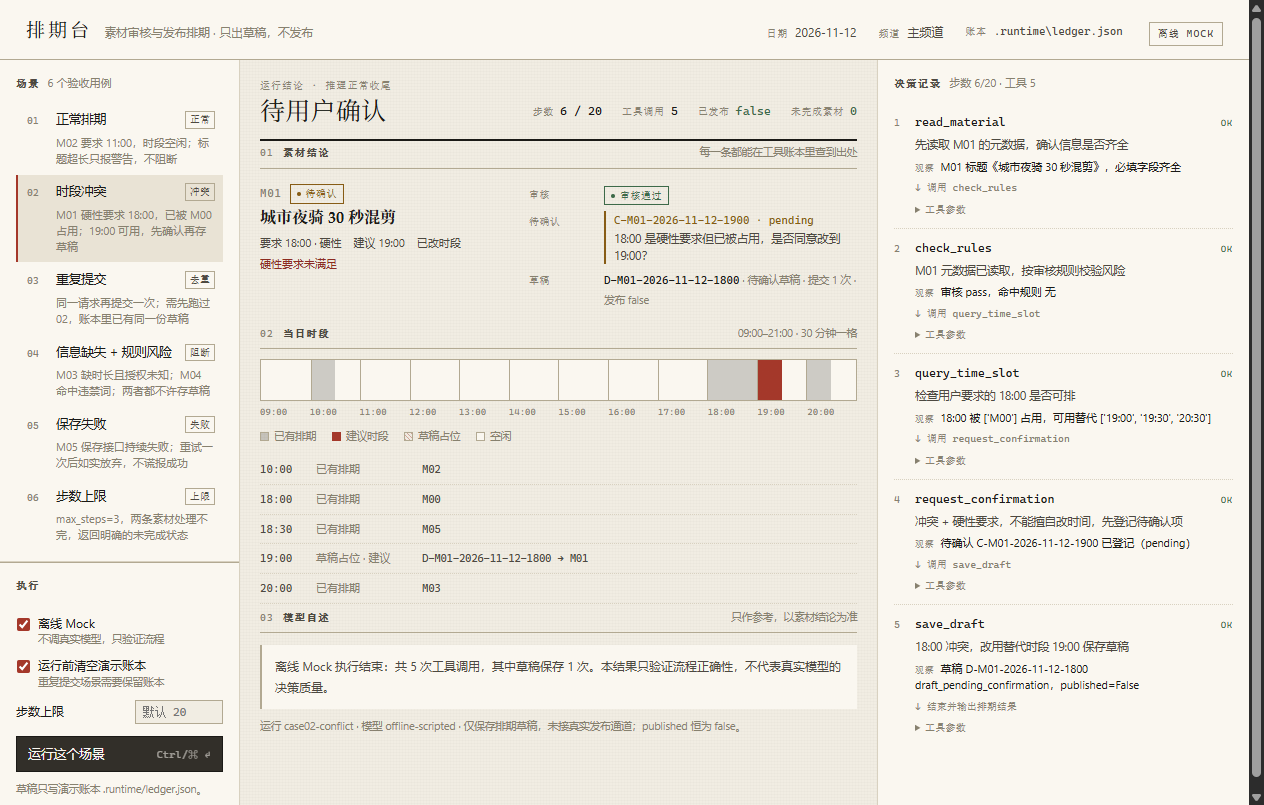
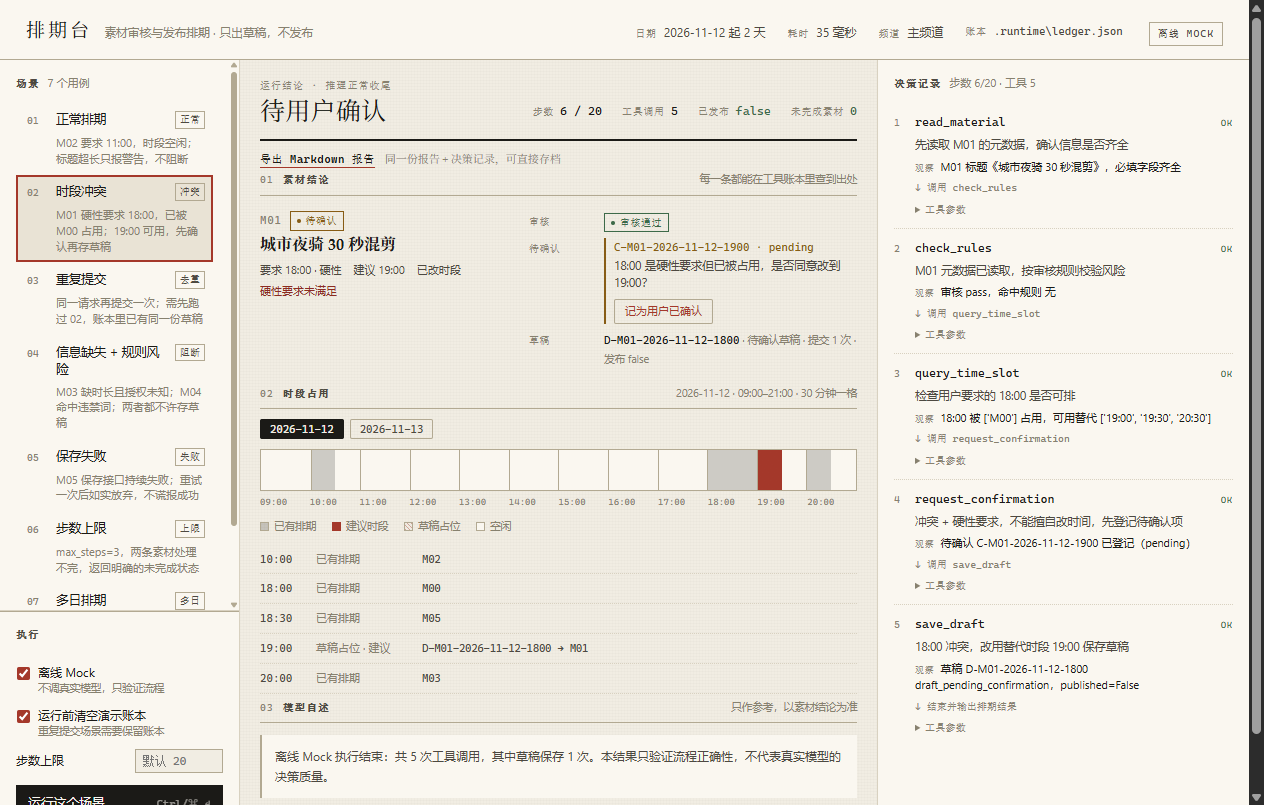
feat(web): 顶栏显示本轮耗时、键盘可走场景列表、窄屏截图补齐
- 运行开始时记时间戳，report 到达后显示真实耗时（离线几十毫秒，真实模型十几秒）
- 场景列表改为 roving tabindex：方向键/Home/End 移动焦点，只有当前项进 Tab 序列
- #outcome 与 #trace-limits 加 aria-live，结论变化读屏可听到；button/a 加 :focus-visible 描边
- 服务端用例补键盘/读屏钩子断言；全套 59 个通过
- 新增 docs/images/web-narrow.png（884px 单列布局），重拍 02 与 07 截图以体现耗时与修正后的场景说明

diff --git a/web/app.js b/web/app.js
@@ -56,6 +56,7 @@
   var running = false;
   var stream = null;
   var finished = false;
+  var startedAt = 0;
 
   function $(id) { return document.getElementById(id); }
 
@@ -118,9 +119,36 @@
       btn.appendChild(el("span", "case-tag", item.tag));
       btn.appendChild(el("span", "case-note", item.note));
       btn.addEventListener("click", function () { select(item.file); });
+      btn.addEventListener("keydown", onCaseKey);
       li.appendChild(btn);
       root.appendChild(li);
     });
+    syncCaseTabindex();
+  }
+
+  /* 列表是单选组：只有当前项进 Tab 序列，箭头键在项之间移动。 */
+  function syncCaseTabindex() {
+    Array.prototype.forEach.call(document.querySelectorAll(".case"), function (node) {
+      node.tabIndex = node.dataset.case === selected ? 0 : -1;
+    });
+  }
+
+  function onCaseKey(event) {
+    var keys = { ArrowDown: 1, ArrowRight: 1, ArrowUp: -1, ArrowLeft: -1 };
+    var nodes = Array.prototype.slice.call(document.querySelectorAll(".case"));
+    var here = nodes.indexOf(event.currentTarget);
+    var next = null;
+    if (event.key in keys) {
+      next = nodes[(here + keys[event.key] + nodes.length) % nodes.length];
+    } else if (event.key === "Home") {
+      next = nodes[0];
+    } else if (event.key === "End") {
+      next = nodes[nodes.length - 1];
+    }
+    if (!next) { return; }
+    event.preventDefault();
+    select(next.dataset.case);
+    next.focus();
   }
 
   function select(name) {
@@ -128,6 +156,7 @@
     Array.prototype.forEach.call(document.querySelectorAll(".case"), function (node) {
       node.setAttribute("aria-current", node.dataset.case === name ? "true" : "false");
     });
+    syncCaseTabindex();
   }
 
   /* ---------- timeline ---------- */
@@ -422,6 +451,15 @@
     (trace.steps || []).forEach(function (step) { root.appendChild(stepItem(step)); });
   }
 
+  /* 耗时按浏览器时钟算：它只说明"这一轮跑了多久"，结论仍只信 report。 */
+  function renderDuration() {
+    if (!startedAt) { $("meta-duration").textContent = "—"; return; }
+    var elapsed = Date.now() - startedAt;
+    $("meta-duration").textContent = elapsed < 1000
+      ? Math.max(1, Math.round(elapsed)) + " 毫秒"
+      : (elapsed / 1000).toFixed(1) + " 秒";
+  }
+
   function stepItem(step) {
     var li = el("li", "step");
     var head = el("div", "step-head");
@@ -500,6 +538,8 @@
     var maxSteps = $("max-steps").value;
     if (maxSteps) { params.set("max_steps", maxSteps); }
 
+    startedAt = Date.now();
+    $("meta-duration").textContent = "计中…";
     $("empty").hidden = true;
     $("results").hidden = false;
     $("results").classList.add("stale");  // 上一轮的结论先压暗，别让人误以为是新的
@@ -519,6 +559,7 @@
       state = payload.state;
       renderMeta(state);
       renderReport(payload.report, payload.trace);
+      renderDuration();
       $("results").classList.remove("stale");
       closeStream();
       setRunning(false);

diff --git a/web/index.html b/web/index.html
@@ -16,6 +16,7 @@
   </div>
   <dl class="meta">
     <div><dt>日期</dt><dd id="meta-date">—</dd></div>
+    <div><dt>耗时</dt><dd id="meta-duration">—</dd></div>
     <div><dt>频道</dt><dd id="meta-channel">—</dd></div>
     <div><dt>账本</dt><dd id="meta-ledger" class="mono">—</dd></div>
   </dl>
@@ -56,7 +57,7 @@
       <div class="verdict">
         <div class="verdict-main">
           <p class="eyebrow" id="verdict-sub">运行结论</p>
-          <p class="outcome" id="outcome">—</p>
+          <p class="outcome" id="outcome" aria-live="polite">—</p>
         </div>
         <ul class="counters" id="counters"></ul>
       </div>
@@ -87,7 +88,7 @@
 
   <aside class="rail rail-right">
     <section class="panel trace-panel">
-      <h2 class="panel-title">决策记录<em id="trace-limits">未运行</em></h2>
+      <h2 class="panel-title">决策记录<em id="trace-limits" aria-live="polite">未运行</em></h2>
       <ol class="trace" id="trace"></ol>
     </section>
   </aside>

diff --git a/web/app.css b/web/app.css
@@ -337,6 +337,16 @@ h1, h2, h3, p, dl, dd, ol, ul, pre { margin: 0; }
 .confirm-btn:hover { background: var(--accent-soft); border-color: var(--accent); }
 .confirm-btn:disabled { opacity: 0.55; cursor: default; }
 
+/* 键盘用户：焦点必须看得见，且只在键盘导航时出现，不干扰鼠标点击的观感 */
+button:focus-visible,
+a:focus-visible,
+select:focus-visible,
+input:focus-visible {
+  outline: 2px solid var(--accent);
+  outline-offset: 2px;
+}
+.case:focus-visible { outline-offset: -2px; }
+
 @media (max-width: 1360px) {
   .grid { grid-template-columns: 240px minmax(0, 1fr) 372px; }
   .work { padding: 18px 20px 34px; }

diff --git a/tests/test_server.py b/tests/test_server.py
@@ -69,6 +69,16 @@ class ServerTestCase(unittest.TestCase):
         self.assertEqual(status, 200)
         self.assertIn("排期台", body.decode("utf-8"))
 
+    def test_index_keeps_the_keyboard_and_screen_reader_hooks(self) -> None:
+        _, page = self.get("/")
+        html = page.decode("utf-8")
+        self.assertIn('aria-live="polite"', html)
+        self.assertIn('id="meta-duration"', html)
+        _, script = self.get("/app.js")
+        js = script.decode("utf-8")
+        self.assertIn("ArrowDown", js)
+        self.assertIn("tabIndex", js)
+
     def test_static_css_is_served_with_right_content_type(self) -> None:
         status, _ = self.get("/app.css")
         self.assertEqual(status, 200)

diff --git a/docs/03-evaluation.md b/docs/03-evaluation.md
@@ -15,7 +15,7 @@
 | 工具层 | `tests/test_tools.py` | 硬性时间护栏、审核未过护栏、重复提交去重、自有草稿不冲突、他人草稿占位、保存失败、参数校验、素材不存在、越界读取、未注册工具、替代时段的推荐理由随工具结果返回 |
 | 图级 | `tests/test_agent_flow.py` | 7 个用例端到端、多日冲突只在自己那一天待确认、步数上限（含 CLI 覆盖）、trace 结构、无发布工具 |
 | 报告层 | `tests/test_markdown.py` | 02 的确认项与草稿 id 原样出现在 Markdown、任何用例都不得出现「已发布：是」、保存失败写成「未保存（失败 2 次，未谎报成功）」、步数上限列出未完成素材、CLI `--report-md` 真的写出文件 |
-| 接口层 | `tests/test_server.py` | `/api/state` 字段（含 `dates`/`days` 两天占位）、7 个场景、静态文件与路径穿越、`/api/run` 跑通 02、非法场景与坏 JSON、`/api/reset` 清账本、02→05 只有一份草稿、四场景 `published` 恒 False、SSE 顺序与人工确认回写 |
+| 接口层 | `tests/test_server.py` | `/api/state` 字段（含 `dates`/`days` 两天占位）、7 个场景、静态文件与路径穿越、`/api/run` 跑通 02、非法场景与坏 JSON、`/api/reset` 清账本、02→05 只有一份草稿、四场景 `published` 恒 False、SSE 顺序与人工确认回写、页面保留键盘/读屏钩子（`aria-live`、`meta-duration`、箭头键 tabindex） |
 
 ## 七个用例的实际结果（离线 Mock）
 
@@ -52,7 +52,7 @@
 实时推送同样有接口级断言：`test_stream_pushes_steps_before_the_final_report` 读真 SSE 流，确认 `meta` 先行、
 中间至少 3 条 `trace` 快照（第一条只含 1 步、末条步号已推进）、最后一条是 `report` 且 `published=False`；
 `test_stream_rejects_unknown_case_before_opening_stream` 保证非法场景在开流之前就 400。
-九张截图是同一界面在不同场景下的实际渲染，页面上的数字全部来自那份 `report`：
+十张截图是同一界面在不同场景下的实际渲染，页面上的数字全部来自那份 `report`：
 
 | 截图 | 场景 | 页面上应看到的 |
 | --- | --- | --- |
@@ -63,6 +63,7 @@
 | `docs/images/web-02-conflict-live.png` | 02 走真实模型 | 右上角切到「真实模型」；`步数 5/20`、`工具 5`；决策依据栏是模型自己写的理由，结论同为「待用户确认」，`已发布 false` |
 | `docs/images/web-02-conflict-approved.png` | 人工确认后重跑 | 点「记为用户已确认」后确认项变 `approved`、结论变「已排期 · 仅草稿」、`requires_user_confirmation=false`、`published` 仍为 false |
 | `docs/images/web-02-conflict-streaming.png` | 真实模型运行中（第 3 条决策） | 右栏逐条推送（`执行中 · 已产生 3 条决策记录`，朱红呼吸点），中间上一轮结论压暗；跑完后恢复亮度并换成新结果 |
+| `docs/images/web-narrow.png` | 884px 窄屏（单列） | 三栏在 ≤1000px 折成一列，场景列表、执行区、结论依次堆叠；顶栏出现「耗时 43 毫秒」，说明计时来自本轮真实运行而不是写死 |
 | `docs/images/web-report-md.png` | 结论下方的报告导出 | 结论行下出现「导出 Markdown 报告」；点它下载的就是上面那份报告（同一份 `report` + 决策记录），`已发布 否` |
 | `docs/images/web-07-multiday.png` | 多日排期 | 页面顶部「2026-11-12 起 2 天」；时段带上方出现两天切换（11-13 激活）；11-13 明细列出 09:00 M07 / 09:30 草稿 M06 / 14:00 M06 / 20:00 草稿 M07；结论「待用户确认」、`已发布 false` |
 

diff --git a/docs/05-retrospective.md b/docs/05-retrospective.md
@@ -57,4 +57,10 @@
 而 09:30 本身完全合法——偏好配置一旦写大就会悄悄改变"最近可用"的语义。最后数据里取 30（一格），
 用一个显式传 60 的测试证明惩罚真的会生效，避免"配置存在但永不触发"。
 
+界面这一轮补的是"用起来顺不顺手"：顶栏显示本轮真实耗时（不是写死的估算）、
+场景列表可以用方向键走、焦点有可见描边、读屏能从 `aria-live` 听到结论变化，
+并把 884px 窄屏的样子截了图——之前所有截图都是宽屏，等于从没验证过窄屏。
+一条经验：截图前要确认服务进程是最新的——这次 07 的场景说明还停在旧文案，
+截图里写着"M07 占用"，而数据早改成 M02；改完源码不重启就拍照，等于给自己留假证据。
+
 未完成：多频道、带鉴权的 API、并发账本（多进程同时写会丢更新）。
